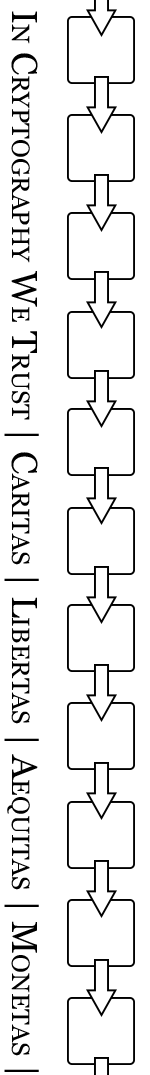
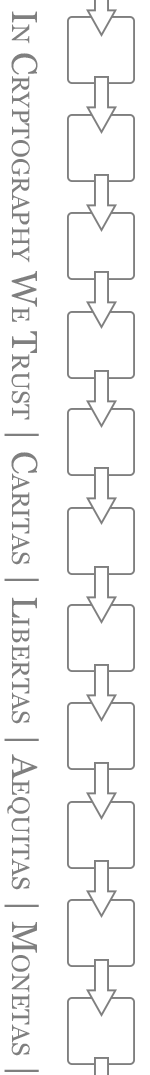
Background work

diff --git a/_sass/page.scss b/_sass/page.scss
@@ -218,8 +218,10 @@ $button-size: 1.5rem;
 
 /* Main content */
 #main {
-	background-image: url("../../images/cryptotrust.png");
-	background-repeat: repeat-y;
+	@media #{$large} {
+		background-image: url("../../images/cryptotrust.png");
+		background-repeat: repeat-y;
+	}
 	counter-reset: captions;
 	@include container;
 	@include clearfix;
